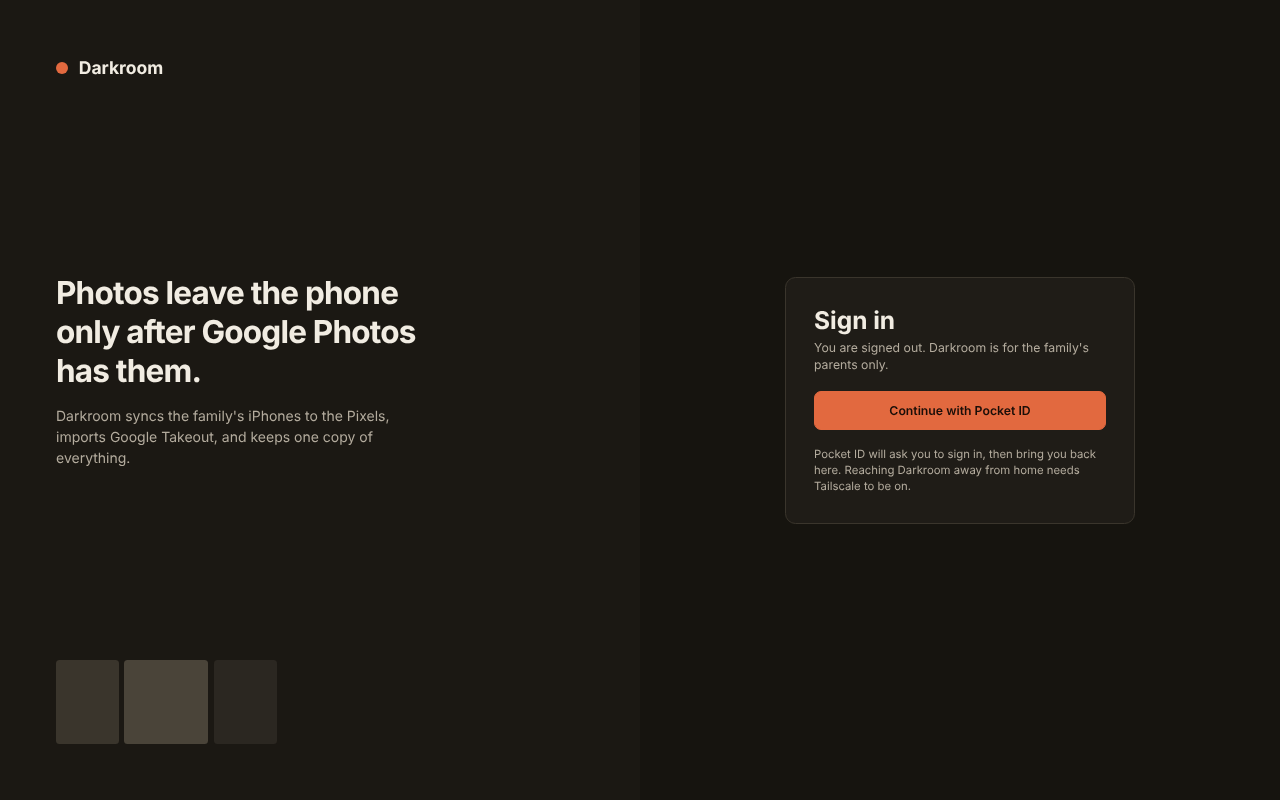
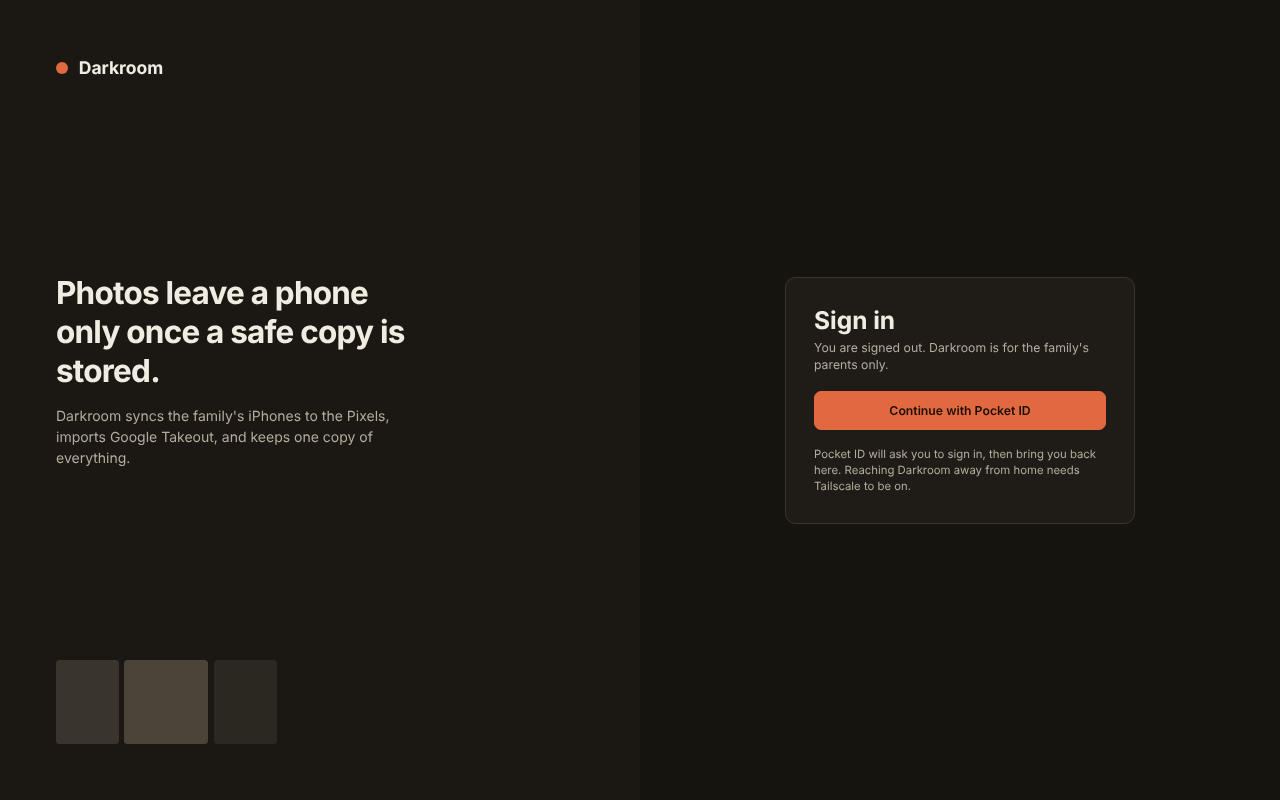
fix: reword the sign-in pitch for the Immich-first flow (#251)

Changed region(s): [[0.0312, 0.3438, 0.3438, 0.5]]

diff --git a/docs/design/web/01-signin-phone.dc.html b/docs/design/web/01-signin-phone.dc.html
@@ -19,7 +19,7 @@ body{color-scheme:dark;margin:0;background:#16140F;color:#F1ECE2;font:15px/1.45 
 <div style="width:100%;min-height:844px;padding:24px 16px 32px;display:flex;flex-direction:column;gap:32px">
 <div style="display:flex;align-items:center;gap:10px;font-size:20px;font-weight:700"><span style="width:14px;height:14px;border-radius:50%;background:#E2693F;display:block"></span>Darkroom</div>
 <div style="display:flex;flex-direction:column;gap:12px;margin-top:48px">
-<div style="font-size:30px;line-height:1.12;font-weight:700;letter-spacing:-.01em">Photos leave the phone only after Google Photos has them.</div>
+<div style="font-size:30px;line-height:1.12;font-weight:700;letter-spacing:-.01em">Photos leave a phone only once a safe copy is stored.</div>
 <div style="color:#B3AB9D;font-size:16px">Darkroom syncs the family's iPhones to the Pixels, imports Google Takeout, and keeps one copy of everything.</div>
 </div>
 <div style="background:#1F1C17;border:1px solid #3A352C;border-radius:12px;padding:20px;display:flex;flex-direction:column;gap:16px">

diff --git a/docs/design/web/01-signin-desktop.dc.html b/docs/design/web/01-signin-desktop.dc.html
@@ -20,7 +20,7 @@ body{color-scheme:dark;margin:0;background:#16140F;color:#F1ECE2;font:14px/1.45 
 <div style="background:#1B1813;color:#F1ECE2;padding:64px;display:flex;flex-direction:column;justify-content:space-between">
 <div style="display:flex;align-items:center;gap:12px;font-size:20px;font-weight:700"><span style="width:14px;height:14px;border-radius:50%;background:#E2693F;display:block"></span>Darkroom</div>
 <div style="display:flex;flex-direction:column;gap:16px;max-width:420px">
-<div style="font-size:36px;line-height:1.1;font-weight:700;letter-spacing:-.01em">Photos leave the phone only after Google Photos has them.</div>
+<div style="font-size:36px;line-height:1.1;font-weight:700;letter-spacing:-.01em">Photos leave a phone only once a safe copy is stored.</div>
 <div style="color:#B3AB9D;font-size:16px">Darkroom syncs the family's iPhones to the Pixels, imports Google Takeout, and keeps one copy of everything.</div>
 </div>
 <div style="display:flex;gap:6px">

diff --git a/docs/design/web/01-signin-error-desktop.dc.html b/docs/design/web/01-signin-error-desktop.dc.html
@@ -20,7 +20,7 @@ body{color-scheme:dark;margin:0;background:#16140F;color:#F1ECE2;font:14px/1.45 
 <div style="background:#1B1813;color:#F1ECE2;padding:64px;display:flex;flex-direction:column;justify-content:space-between">
 <div style="display:flex;align-items:center;gap:12px;font-size:20px;font-weight:700"><span style="width:14px;height:14px;border-radius:50%;background:#E2693F;display:block"></span>Darkroom</div>
 <div style="display:flex;flex-direction:column;gap:16px;max-width:420px">
-<div style="font-size:36px;line-height:1.1;font-weight:700;letter-spacing:-.01em">Photos leave the phone only after Google Photos has them.</div>
+<div style="font-size:36px;line-height:1.1;font-weight:700;letter-spacing:-.01em">Photos leave a phone only once a safe copy is stored.</div>
 <div style="color:#B3AB9D;font-size:16px">Darkroom syncs the family's iPhones to the Pixels, imports Google Takeout, and keeps one copy of everything.</div>
 </div>
 <div style="display:flex;gap:6px">

diff --git a/frontend/src/App.svelte.test.ts b/frontend/src/App.svelte.test.ts
@@ -35,7 +35,7 @@ describe("signed out", () => {
     expect(link).toHaveAttribute("href", "/auth/login?next=%2Fpeople");
     expect(screen.getByRole("heading", { level: 1, name: "Sign in" })).toBeInTheDocument();
     expect(screen.getByText("You are signed out. Darkroom is for the family's parents only.")).toBeInTheDocument();
-    expect(screen.getByText("Photos leave the phone only after Google Photos has them.")).toBeInTheDocument();
+    expect(screen.getByText("Photos leave a phone only once a safe copy is stored.")).toBeInTheDocument();
     expect(screen.getByText(/Reaching Darkroom away from home needs Tailscale/)).toBeInTheDocument();
     expect(screen.queryByText(/placeholder/i)).not.toBeInTheDocument();
     expect(screen.queryByRole("navigation")).not.toBeInTheDocument();

diff --git a/frontend/src/SignedOut.svelte b/frontend/src/SignedOut.svelte
@@ -8,7 +8,7 @@
       <span class="block size-3.5 rounded-full bg-accent"></span>Darkroom
     </div>
     <div class="mt-12 flex max-w-105 flex-col gap-3 md:mt-0 md:gap-4">
-      <p class="text-3xl leading-tight font-bold tracking-tight md:text-4xl">Photos leave the phone only after Google Photos has them.</p>
+      <p class="text-3xl leading-tight font-bold tracking-tight md:text-4xl">Photos leave a phone only once a safe copy is stored.</p>
       <p class="text-md text-ink-muted">Darkroom syncs the family's iPhones to the Pixels, imports Google Takeout, and keeps one copy of everything.</p>
     </div>
     <div class="hidden gap-1.5 md:flex" aria-hidden="true">

diff --git a/darkroom/server/common.py b/darkroom/server/common.py
@@ -147,7 +147,7 @@ PAGE = """<!doctype html>
 <div class="wrap">
 <div class="side">
 <div class="brand"><span class="dot"></span>Darkroom</div>
-<div class="pitch"><strong>Photos leave the phone only after Google Photos has them.</strong><span>Darkroom syncs the family's iPhones to the Pixels, imports Google Takeout, and keeps one copy of everything.</span></div>
+<div class="pitch"><strong>Photos leave a phone only once a safe copy is stored.</strong><span>Darkroom syncs the family's iPhones to the Pixels, imports Google Takeout, and keeps one copy of everything.</span></div>
 </div>
 <main><div class="card">
 <h1>Sign in</h1>
